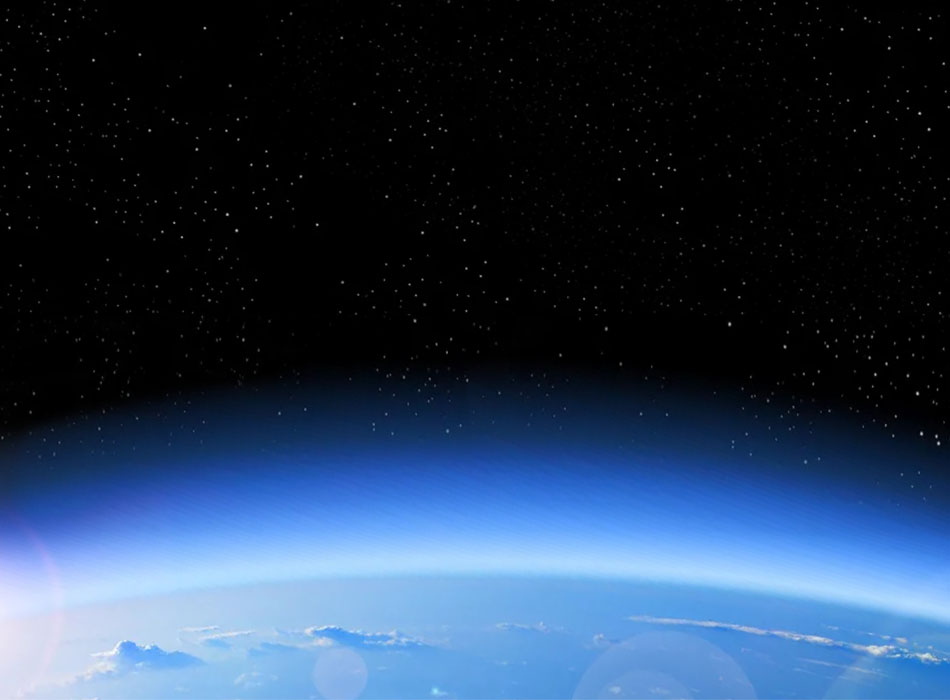
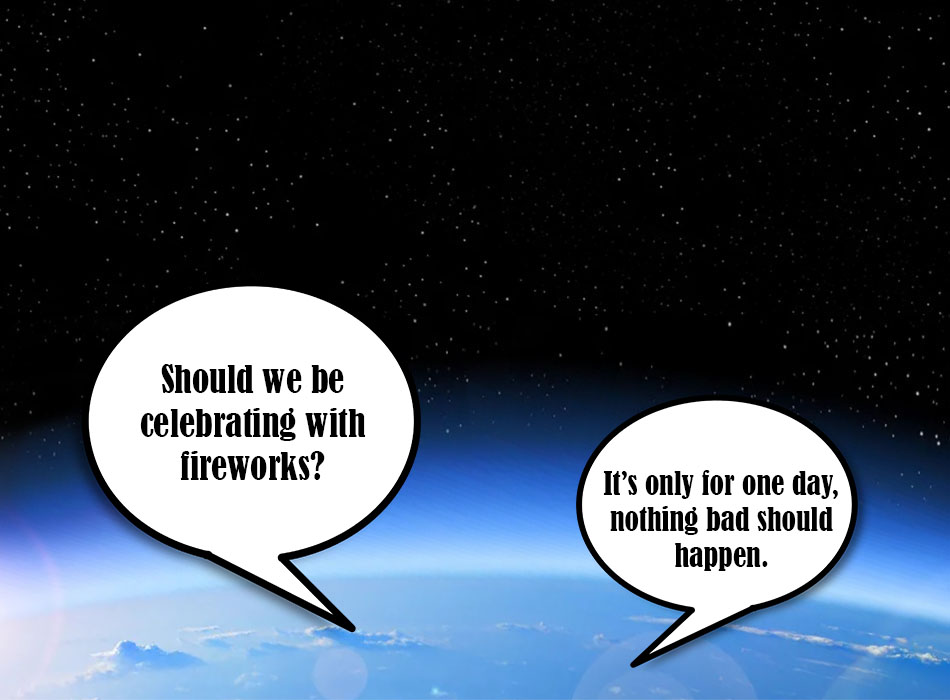
Updated TitleBackground from CO2 to Greenhouse, also added fireworks animation.

Changed region(s): [[0.0611, 0.39, 0.4579, 0.9], [0.58, 0.57, 0.9158, 0.96]]

diff --git a/main.py b/main.py
@@ -6,15 +6,17 @@ from load_sprite import load_sprite
 from CO2Astroids import CO2Astroids
 from photosynthesisGun import PhotosynthesisGun
 from leafBullet import LeafBullet
+from fireworks import *
 
 # Settings
 WIDTH, HEIGHT = 950, 700
-BACKGROUND_COLOR = (0,0,0)
+BACKGROUND_COLOR = (0, 0, 0)
 MOVEMENT_SPEED = 5
 LEAF_SPEED = 5
 GUN_X = 440
-GUN_Y =600
+GUN_Y = 600
 WIN_KILLS = 5  # Has to be a multiple of 5
+
 
 class CO2Invaders:
     def __init__(self):
@@ -23,18 +25,19 @@ class CO2Invaders:
         self.screen = pygame.display.set_mode((WIDTH, HEIGHT))
         self._background = pygame.image.load('images/titleBackground.png')
         self.clock = pygame.time.Clock()
-        self._state = "title"                                 # title, intro, instructions, unfinished, won, lost, lost2
+        self._state = "title"  # title, intro, instructions, unfinished, won, won2, lost, lost2
         self.lives = 3
         self.lives_image = pygame.image.load('images/lives_3.png')
-        self.kills = 0                                        # keeps track of total kills
-        self.clear_kills = 0                                  # resets to 0 when new clear background is placed
+        self.kills = 0  # keeps track of total kills
+        self.clear_kills = 0  # resets to 0 when new clear background is placed
         self.background_pos = 0
         self.not_fine = pygame.image.load('images/this_is_not_fine.png')
 
         # Components
-        self.co2_particle = CO2Astroids((9,9), load_sprite('co2.png', (80,80), True), (0,0))
+        self.co2_particle = CO2Astroids((9, 9), load_sprite('co2.png', (80, 80), True), (0, 0))
         self.gun = PhotosynthesisGun(self.screen, 440, 600, WIDTH)
-        self.leaf = LeafBullet(self.screen, self.gun.gunX+30, "ready", LEAF_SPEED) 
+        self.leaf = LeafBullet(self.screen, self.gun.gunX + 30, "ready", LEAF_SPEED)
+        self.fireworks = [Firework() for i in range(2)]
 
     def main_loop(self):
         # Background Music
@@ -43,10 +46,13 @@ class CO2Invaders:
 
         running = True
         while running:
+            if self._state == "won":
+                self.clock.tick(60)
+            else:
+                self.clock.tick(600)
             self._handle_input()
             self._process_game_logic()
             self._draw()
-            # print(self.lives)
 
     def _init_pygame(self):
         pygame.init()
@@ -99,10 +105,15 @@ class CO2Invaders:
                     if event.key == pygame.K_SPACE and self.leaf.bullet_state == "ready":
                         # self.leaf.set_bullet_state("fire")
                         self.leaf.bullet_state = "fire"
-                        self.leaf.leafX = self.gun.gunX+30
+                        self.leaf.leafX = self.gun.gunX + 30
                         # Sound when gun is fired
                         bullet_sound = mixer.Sound('sounds/bullet2.wav')
                         bullet_sound.play()
+
+                    # _________________________________ TEMP ____________________________
+                    if event.key == pygame.K_BACKSPACE:
+                        self.kills += 1
+
                 if event.type == pygame.KEYUP:
                     # stop moving
                     if event.key == pygame.K_RIGHT or event.key == pygame.K_LEFT:
@@ -119,11 +130,16 @@ class CO2Invaders:
                     self._background = pygame.image.load('images/titleBackground.png')
                     self.reverts_attributes()
 
-            else:                                                    # state == won
+            elif self._state == "won":
+                if event.type == pygame.KEYDOWN:
+                    self._state = "won2"
+                    self._background = pygame.image.load('images/game_2.jpg')
+                    self.reverts_attributes()
+
+            else:  # state is won2
                 if event.type == pygame.KEYDOWN:
                     self._state = "title"
                     self._background = pygame.image.load('images/titleBackground.png')
-                    self.reverts_attributes()
 
     def _process_game_logic(self):
 
@@ -135,7 +151,7 @@ class CO2Invaders:
             self.leaf.bullet_state = 'ready'
             self.leaf.leafY = 0
             self.co2_particle._x = random.randint(100, WIDTH)
-            self.co2_particle._y = random.randint(100, HEIGHT//2)
+            self.co2_particle._y = random.randint(100, HEIGHT // 2)
 
             # Sound when leaf collides with enemy
             explosion_sound = mixer.Sound('sounds/explosion2.wav')
@@ -145,7 +161,7 @@ class CO2Invaders:
         if self.gun.has_collided(self.co2_particle._x, self.co2_particle._y):
             self.lives -= 1
             self.co2_particle._x = random.randint(100, WIDTH)
-            self.co2_particle._y = random.randint(100, HEIGHT//2)
+            self.co2_particle._y = random.randint(100, HEIGHT // 2)
 
         # Determines how many lives are displayed
         if self.lives == 3:
@@ -163,7 +179,6 @@ class CO2Invaders:
         clear_per_kills = WIN_KILLS // 5
 
         if self.clear_kills == clear_per_kills and self._state == "unfinished":
-
             background_arr = [
                 pygame.image.load('images/game_2.jpg'),
                 pygame.image.load('images/game_3.jpg'),
@@ -197,12 +212,12 @@ class CO2Invaders:
                 ["oxygen. It is your job to shoot at the CO2 molecules and", 160],
                 ["help clean the air.", 160],
                 ["- Dr. Climate", 600]]
-            y_coordinate = 110                     # start y_coordinate at 110, increase 40 per new line
+            y_coordinate = 110  # start y_coordinate at 110, increase 40 per new line
             for each_line in intro_text:
                 intro_text = intro_font.render(each_line[0], True, (0, 0, 0))
                 self.screen.blit(intro_text, (each_line[1], y_coordinate))
                 y_coordinate += 40
-        
+
         if self._state == "unfinished":
             # Render lives
             self.screen.blit(self.lives_image, (0, 0))
@@ -224,7 +239,7 @@ class CO2Invaders:
 
             # Render photosynthesisGun
             self.gun.drawPhotosynthesisGun()
-        
+
         if self._state == "lost":
             over_font = pygame.font.Font('freesansbold.ttf', 64)
             over_text = over_font.render("GAME OVER!", True, (255, 255, 255))
@@ -233,7 +248,16 @@ class CO2Invaders:
         if self._state == "won":
             over_font = pygame.font.Font('freesansbold.ttf', 64)
             over_text = over_font.render("YOU WON!", True, (255, 255, 255))
-            self.screen.blit(over_text, (280, 250))
+            self.screen.blit(over_text, (300, 200))
+            # Render fireworks
+            if randint(0, 30) == 1:  # create new firework
+                self.fireworks.append(Firework())
+            update(self.screen, self.fireworks)
+
+        if self._state == "won2":
+            over_font = pygame.font.Font('freesansbold.ttf', 64)
+            over_text = over_font.render("NEXT DAY...", True, (255, 255, 255))
+            self.screen.blit(over_text, (280, 200))
 
         # update display
         pygame.display.update()

diff --git a/fireworks.py b/fireworks.py
@@ -1,0 +1,176 @@
+import pygame
+from random import randint, uniform, choice
+import math
+
+vector = pygame.math.Vector2
+gravity = vector(0, 0.3)
+DISPLAY_WIDTH = 950
+DISPLAY_HEIGHT = 700
+
+trail_colours = [(45, 45, 45), (60, 60, 60), (75, 75, 75), (125, 125, 125), (150, 150, 150)]
+dynamic_offset = 1
+static_offset = 5
+
+
+class Firework:
+
+    def __init__(self):
+        self.colour = (randint(0, 255), randint(0, 255), randint(0, 255))
+        self.colours = (
+            (randint(0, 255), randint(0, 255), randint(0, 255)), (randint(0, 255), randint(0, 255), randint(0, 255)),
+            (randint(0, 255), randint(0, 255), randint(0, 255)))
+        self.firework = Particle(randint(0, DISPLAY_WIDTH), DISPLAY_HEIGHT, True,
+                                 self.colour)  # Creates the firework particle
+        self.exploded = False
+        self.particles = []
+        self.min_max_particles = vector(100, 225)
+
+    def update(self, win):  # called every frame
+        if not self.exploded:
+            self.firework.apply_force(gravity)
+            self.firework.move()
+            for tf in self.firework.trails:
+                tf.show(win)
+
+            self.show(win)
+
+            if self.firework.vel.y >= 0:
+                self.exploded = True
+                self.explode()
+        else:
+            for particle in self.particles:
+                particle.apply_force(vector(gravity.x + uniform(-1, 1) / 20, gravity.y / 2 + (randint(1, 8) / 100)))
+                particle.move()
+                for t in particle.trails:
+                    t.show(win)
+                particle.show(win)
+
+    def explode(self):
+        amount = randint(self.min_max_particles.x, self.min_max_particles.y)
+        for i in range(amount):
+            self.particles.append(Particle(self.firework.pos.x, self.firework.pos.y, False, self.colours))
+
+    def show(self, win):
+        pygame.draw.circle(win, self.colour, (int(self.firework.pos.x), int(self.firework.pos.y)), self.firework.size)
+
+    def remove(self):
+        if self.exploded:
+            for p in self.particles:
+                if p.remove is True:
+                    self.particles.remove(p)
+
+            if len(self.particles) == 0:
+                return True
+            else:
+                return False
+
+
+class Particle:
+
+    def __init__(self, x, y, firework, colour):
+        self.firework = firework
+        self.pos = vector(x, y)
+        self.origin = vector(x, y)
+        self.radius = 20
+        self.remove = False
+        self.explosion_radius = randint(5, 40)
+        self.life = 0
+        self.acc = vector(0, 0)
+        # trail variables
+        self.trails = []  # stores the particles trail objects
+        self.prev_posx = [-10] * 10  # stores the 10 last positions
+        self.prev_posy = [-10] * 10  # stores the 10 last positions
+
+        if self.firework:
+            self.vel = vector(0, -randint(8, 12))
+            self.size = 5
+            self.colour = colour
+            for i in range(5):
+                self.trails.append(Trail(i, self.size, True))
+        else:
+            self.vel = vector(uniform(-1, 1), uniform(-1, 1))
+            self.vel.x *= randint(7, self.explosion_radius + 2)
+            self.vel.y *= randint(7, self.explosion_radius + 2)
+            self.size = randint(2, 4)
+            self.colour = choice(colour)
+            for i in range(5):
+                self.trails.append(Trail(i, self.size, False))
+
+    def apply_force(self, force):
+        self.acc += force
+
+    def move(self):
+        if not self.firework:
+            self.vel.x *= 0.8
+            self.vel.y *= 0.8
+
+        self.vel += self.acc
+        self.pos += self.vel
+        self.acc *= 0
+
+        if self.life == 0 and not self.firework:  # check if particle is outside explosion radius
+            distance = math.sqrt((self.pos.x - self.origin.x) ** 2 + (self.pos.y - self.origin.y) ** 2)
+            if distance > self.explosion_radius:
+                self.remove = True
+
+        self.decay()
+
+        self.trail_update()
+
+        self.life += 1
+
+    def show(self, win):
+        pygame.draw.circle(win, (self.colour[0], self.colour[1], self.colour[2], 0), (int(self.pos.x), int(self.pos.y)),
+                           self.size)
+
+    def decay(self):  # random decay of the particles
+        if 50 > self.life > 10:  # early stage their is a small chance of decay
+            ran = randint(0, 30)
+            if ran == 0:
+                self.remove = True
+        elif self.life > 50:
+            ran = randint(0, 5)
+            if ran == 0:
+                self.remove = True
+
+    def trail_update(self):
+        self.prev_posx.pop()
+        self.prev_posx.insert(0, int(self.pos.x))
+        self.prev_posy.pop()
+        self.prev_posy.insert(0, int(self.pos.y))
+
+        for n, t in enumerate(self.trails):
+            if t.dynamic:
+                t.get_pos(self.prev_posx[n + dynamic_offset], self.prev_posy[n + dynamic_offset])
+            else:
+                t.get_pos(self.prev_posx[n + static_offset], self.prev_posy[n + static_offset])
+
+
+class Trail:
+
+    def __init__(self, n, size, dynamic):
+        self.pos_in_line = n
+        self.pos = vector(-10, -10)
+        self.dynamic = dynamic
+
+        if self.dynamic:
+            self.colour = trail_colours[n]
+            self.size = int(size - n / 2)
+        else:
+            self.colour = (255, 255, 200)
+            self.size = size - 2
+            if self.size < 0:
+                self.size = 0
+
+    def get_pos(self, x, y):
+        self.pos = vector(x, y)
+
+    def show(self, win):
+        pygame.draw.circle(win, self.colour, (int(self.pos.x), int(self.pos.y)), self.size)
+
+
+def update(win, fireworks):
+    for fw in fireworks:
+        fw.update(win)
+        if fw.remove():
+            fireworks.remove(fw)
